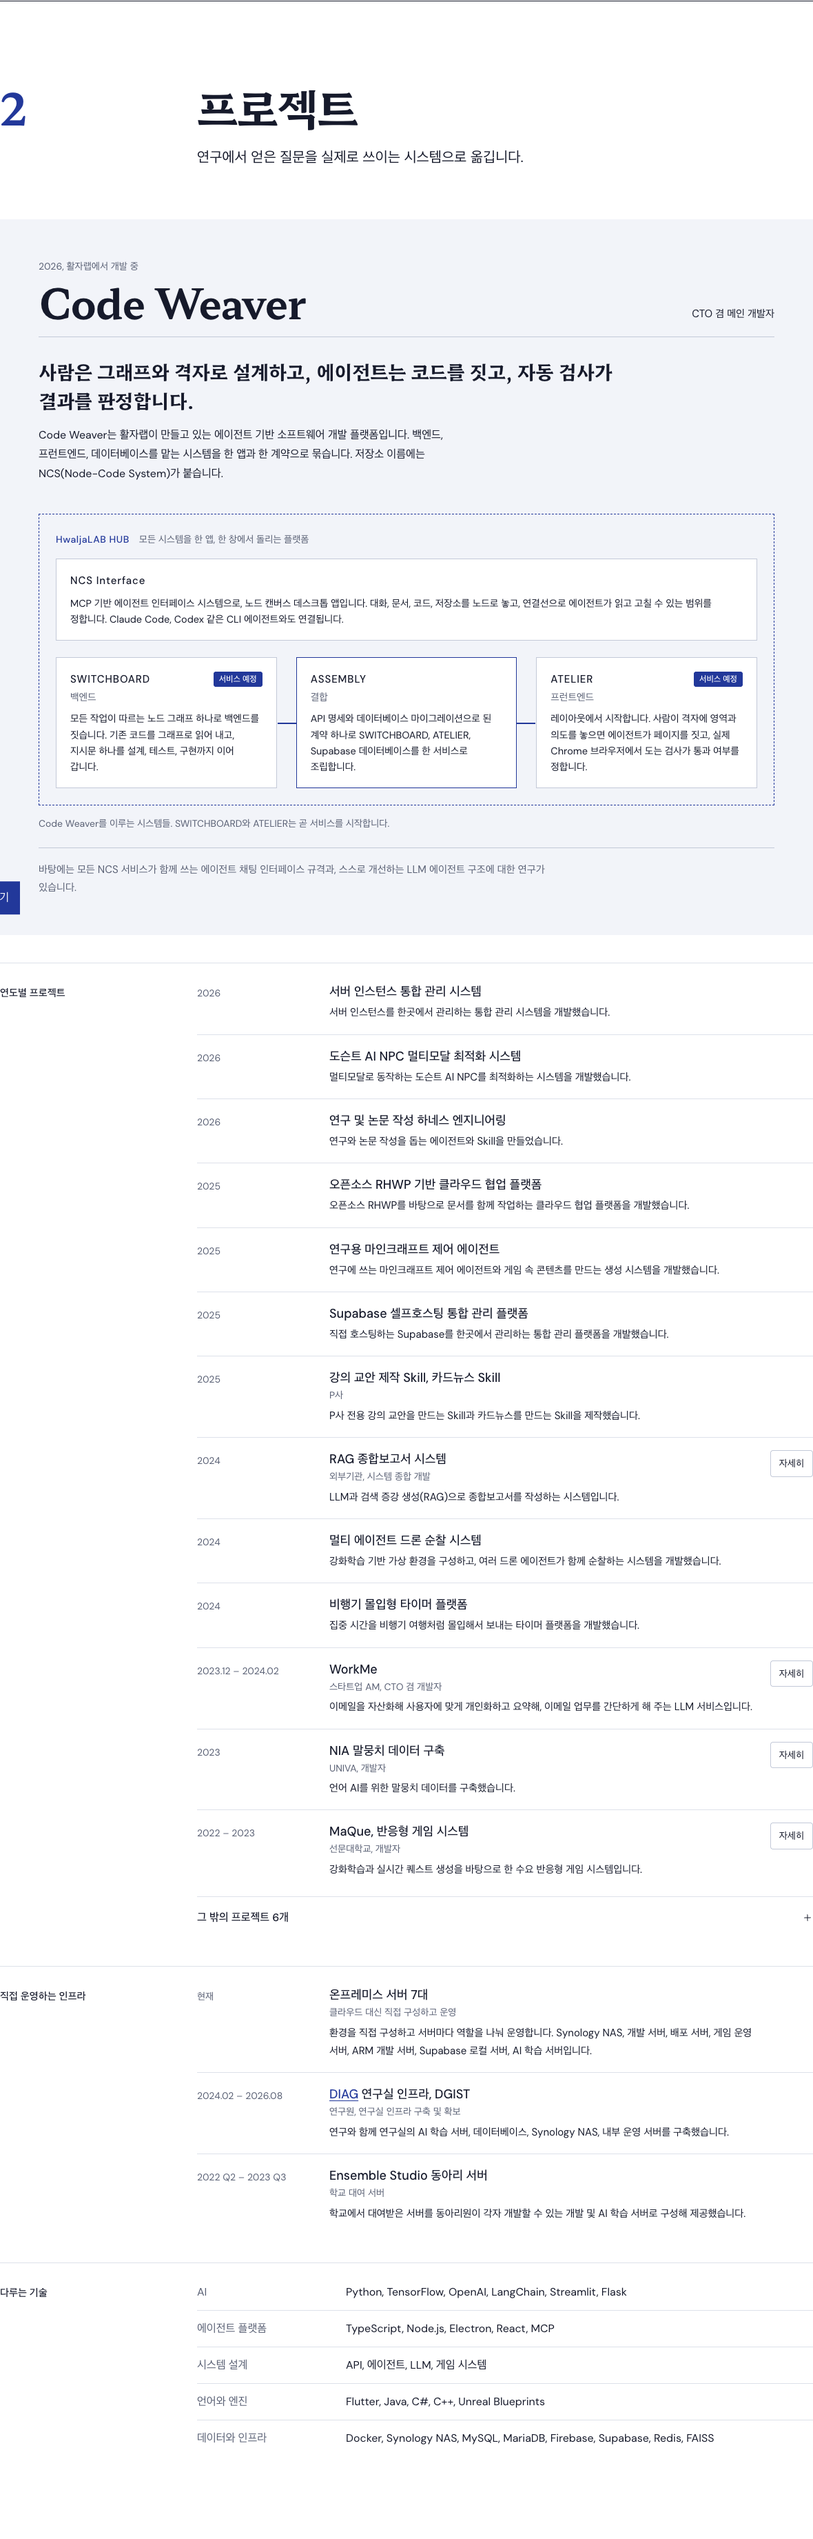
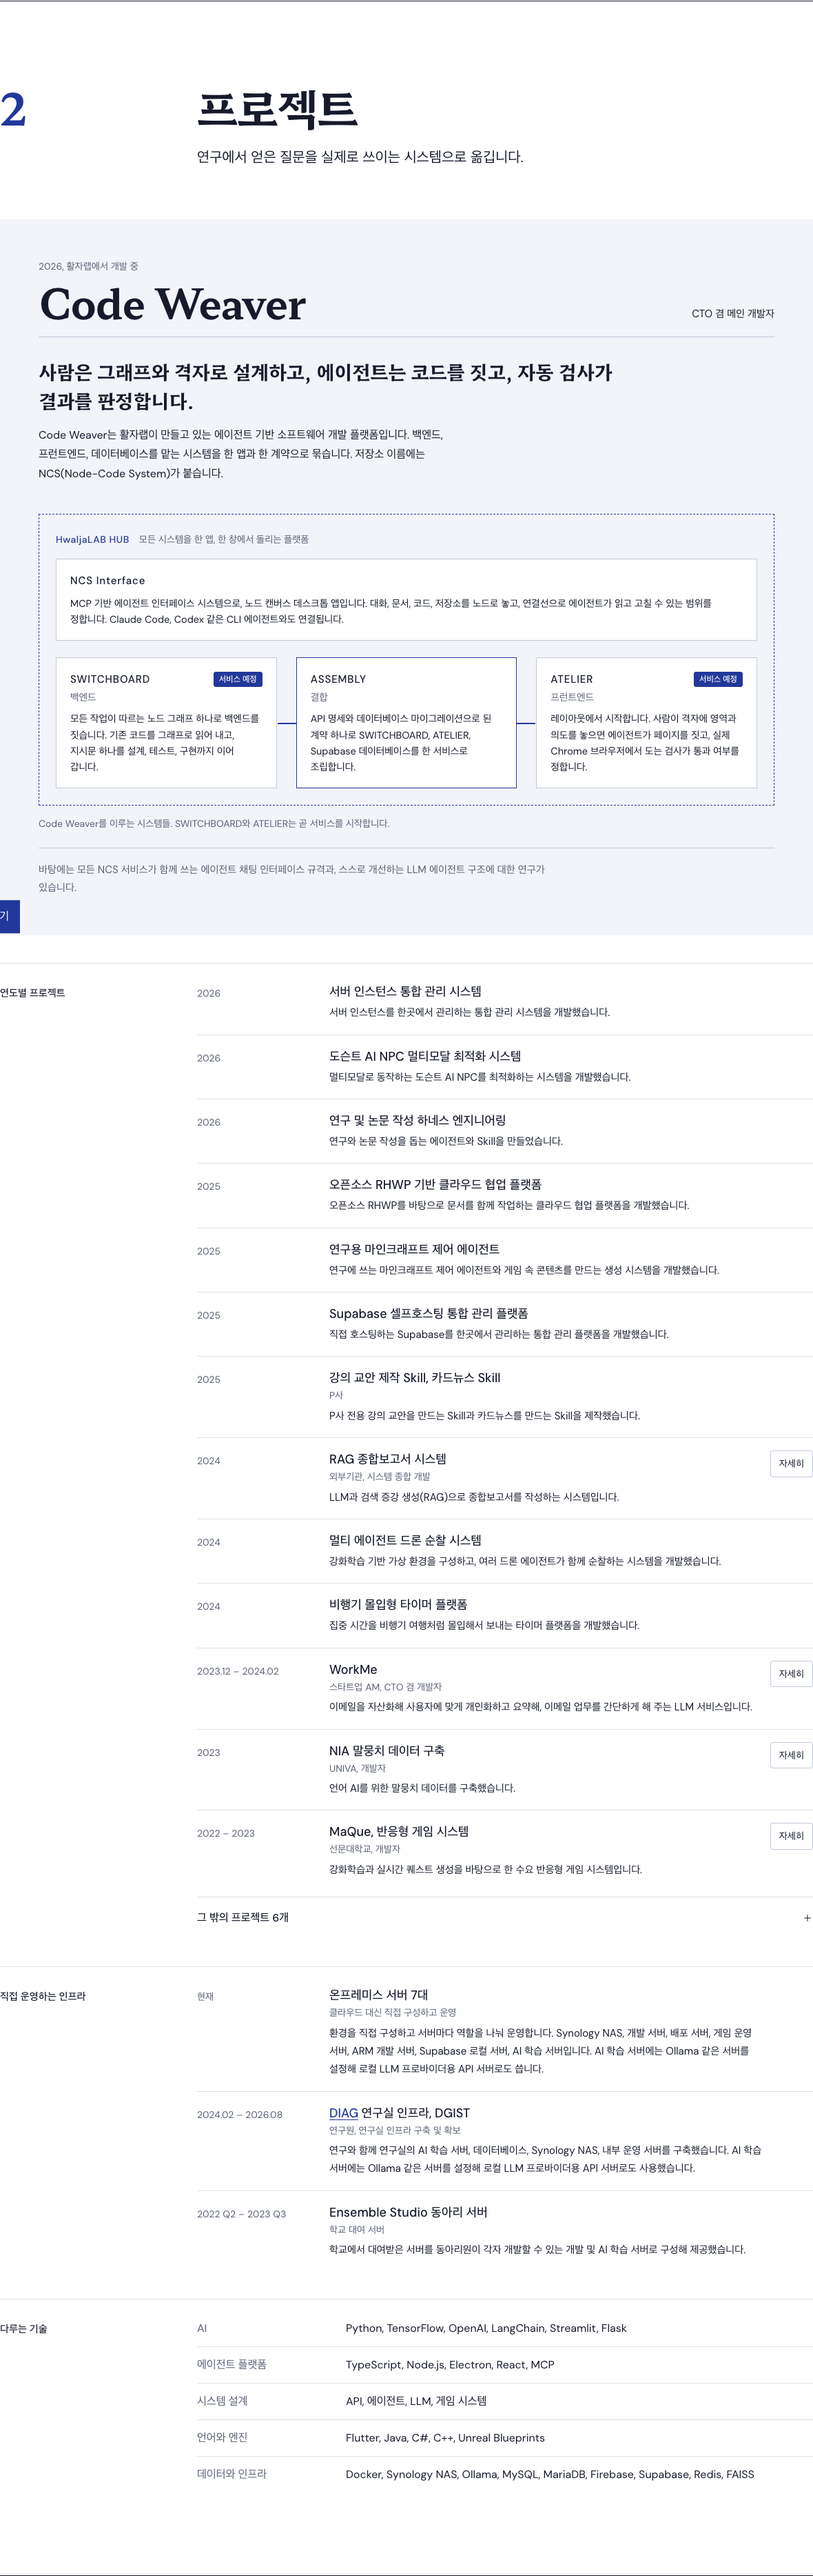
Note the AI training servers also serve local LLMs through Ollama

diff --git a/index.html b/index.html
@@ -321,7 +321,7 @@
               <div class="row-body">
                 <h4 data-en="Seven on-premises servers" data-ko="온프레미스 서버 7대">Seven on-premises servers</h4>
                 <p class="row-meta" data-en="Built and run myself, instead of the cloud" data-ko="클라우드 대신 직접 구성하고 운영">Built and run myself, instead of the cloud</p>
-                <p class="row-text" data-en="I set up each environment myself and run every server for its own role: a Synology NAS, a development server, a deployment server, a game operations server, an ARM development server, a local Supabase server, and an AI training server." data-ko="환경을 직접 구성하고 서버마다 역할을 나눠 운영합니다. Synology NAS, 개발 서버, 배포 서버, 게임 운영 서버, ARM 개발 서버, Supabase 로컬 서버, AI 학습 서버입니다.">I set up each environment myself and run every server for its own role: a Synology NAS, a development server, a deployment server, a game operations server, an ARM development server, a local Supabase server, and an AI training server.</p>
+                <p class="row-text" data-en="I set up each environment myself and run every server for its own role: a Synology NAS, a development server, a deployment server, a game operations server, an ARM development server, a local Supabase server, and an AI training server. The AI training server also runs Ollama as an API server for local LLM providers." data-ko="환경을 직접 구성하고 서버마다 역할을 나눠 운영합니다. Synology NAS, 개발 서버, 배포 서버, 게임 운영 서버, ARM 개발 서버, Supabase 로컬 서버, AI 학습 서버입니다. AI 학습 서버에는 Ollama 같은 서버를 설정해 로컬 LLM 프로바이더용 API 서버로도 씁니다.">I set up each environment myself and run every server for its own role: a Synology NAS, a development server, a deployment server, a game operations server, an ARM development server, a local Supabase server, and an AI training server. The AI training server also runs Ollama as an API server for local LLM providers.</p>
               </div>
             </li>
             <li class="row">
@@ -329,7 +329,7 @@
               <div class="row-body">
                 <h4><a href="https://diag.kr" target="_blank" rel="noopener noreferrer">DIAG</a> <span data-en="lab infrastructure, DGIST" data-ko="연구실 인프라, DGIST">lab infrastructure, DGIST</span></h4>
                 <p class="row-meta" data-en="Researcher, built and secured the lab's infrastructure" data-ko="연구원, 연구실 인프라 구축 및 확보">Researcher, built and secured the lab's infrastructure</p>
-                <p class="row-text" data-en="Alongside my research, I set up the lab's AI training server, database, Synology NAS, and internal operations server." data-ko="연구와 함께 연구실의 AI 학습 서버, 데이터베이스, Synology NAS, 내부 운영 서버를 구축했습니다.">Alongside my research, I set up the lab's AI training server, database, Synology NAS, and internal operations server.</p>
+                <p class="row-text" data-en="Alongside my research, I set up the lab's AI training server, database, Synology NAS, and internal operations server. I also configured Ollama on the AI training server so it served as an API server for local LLM providers." data-ko="연구와 함께 연구실의 AI 학습 서버, 데이터베이스, Synology NAS, 내부 운영 서버를 구축했습니다. AI 학습 서버에는 Ollama 같은 서버를 설정해 로컬 LLM 프로바이더용 API 서버로도 사용했습니다.">Alongside my research, I set up the lab's AI training server, database, Synology NAS, and internal operations server. I also configured Ollama on the AI training server so it served as an API server for local LLM providers.</p>
               </div>
             </li>
             <li class="row">
@@ -350,7 +350,7 @@
             <div><dt data-en="Agent platforms" data-ko="에이전트 플랫폼">Agent platforms</dt><dd>TypeScript, Node.js, Electron, React, MCP</dd></div>
             <div><dt data-en="System design" data-ko="시스템 설계">System design</dt><dd data-en="API, agent, LLM, and game systems" data-ko="API, 에이전트, LLM, 게임 시스템">API, agent, LLM, and game systems</dd></div>
             <div><dt data-en="Languages and engines" data-ko="언어와 엔진">Languages and engines</dt><dd>Flutter, Java, C#, C++, Unreal Blueprints</dd></div>
-            <div><dt data-en="Data and infrastructure" data-ko="데이터와 인프라">Data and infrastructure</dt><dd>Docker, Synology NAS, MySQL, MariaDB, Firebase, Supabase, Redis, FAISS</dd></div>
+            <div><dt data-en="Data and infrastructure" data-ko="데이터와 인프라">Data and infrastructure</dt><dd>Docker, Synology NAS, Ollama, MySQL, MariaDB, Firebase, Supabase, Redis, FAISS</dd></div>
           </dl>
         </div>
       </section>
